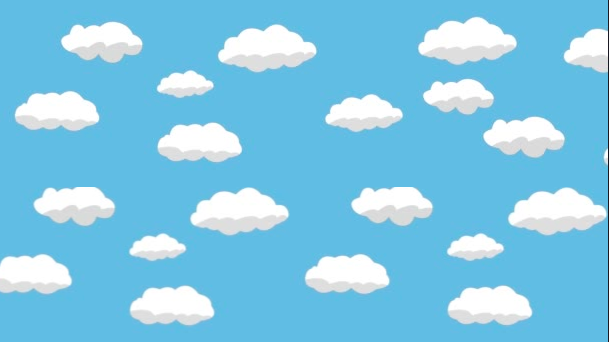
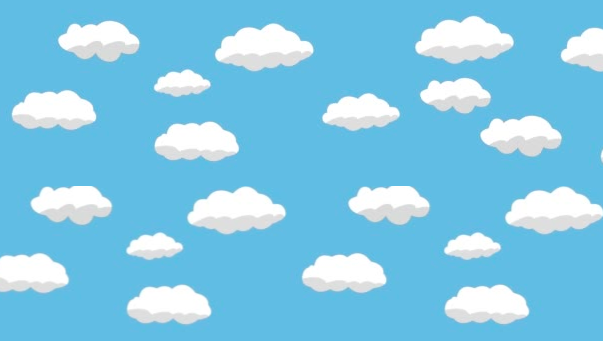
background animation

diff --git a/app.js b/app.js
@@ -13,7 +13,7 @@ counterElement.classList.add("counter-element");
 
 // Create start button
 let start = document.createElement("button");
-start.textContent = "Start";
+start.textContent = "START";
 start.classList.add("start");
 start.addEventListener("click", () => {
     play()
@@ -88,7 +88,7 @@ const play = () => {
         let holeTop = parseInt(window.getComputedStyle(hole).getPropertyValue("top"));
         let cTop = -(500 - characterTop);
         if ((characterTop > 480) || ((blockLeft < 20) && (blockLeft > -50) && ((cTop < holeTop) || (cTop > holeTop + 130)))) {
-            gameOver.textContent = `Game Over - Score: ${counter - 1}`
+            gameOver.textContent = `Game Over - Score: ${counter}`
             character.style.top = 100 + "px";
             counter = 0;
             clearInterval(gravityInterval)

diff --git a/styles.css b/styles.css
@@ -5,9 +5,16 @@
 }
 
 .start {
+    width: 80px;
+    height: 40px;
+    background-color: rgb(56, 249, 56);
+    font-family: 'Roboto', serif;
+    color: white;
+    border-radius: 10px;
     position: absolute;
     top: 225px;
     left: 50%;
+    font-size: 20px;
     transform: translateX(-50%);
 }
 
@@ -26,6 +33,17 @@
     transform: translateX(-50%);
 }
 
+/* animate background */
+@keyframes animate-background {
+    0% {
+        background-position: 0 0;
+    }
+
+    100% {
+        background-position: 1000% 0;
+    }
+}
+
 /* Create game window */
 #game {
     background-image: url(assets/sky.png);
@@ -35,6 +53,7 @@
     margin: auto;
     position: relative;
     overflow: hidden;
+    animation: animate-background 20s linear infinite;
 }
 
 /* Creating block */

diff --git a/index.html b/index.html
@@ -5,6 +5,7 @@
     <meta charset="UTF-8">
     <title>Flap Tap</title>
     <link rel="stylesheet" href="styles.css">
+    <link rel="stylesheet" href="https://fonts.googleapis.com/css?family=Roboto">
 </head>
 
 <body>
